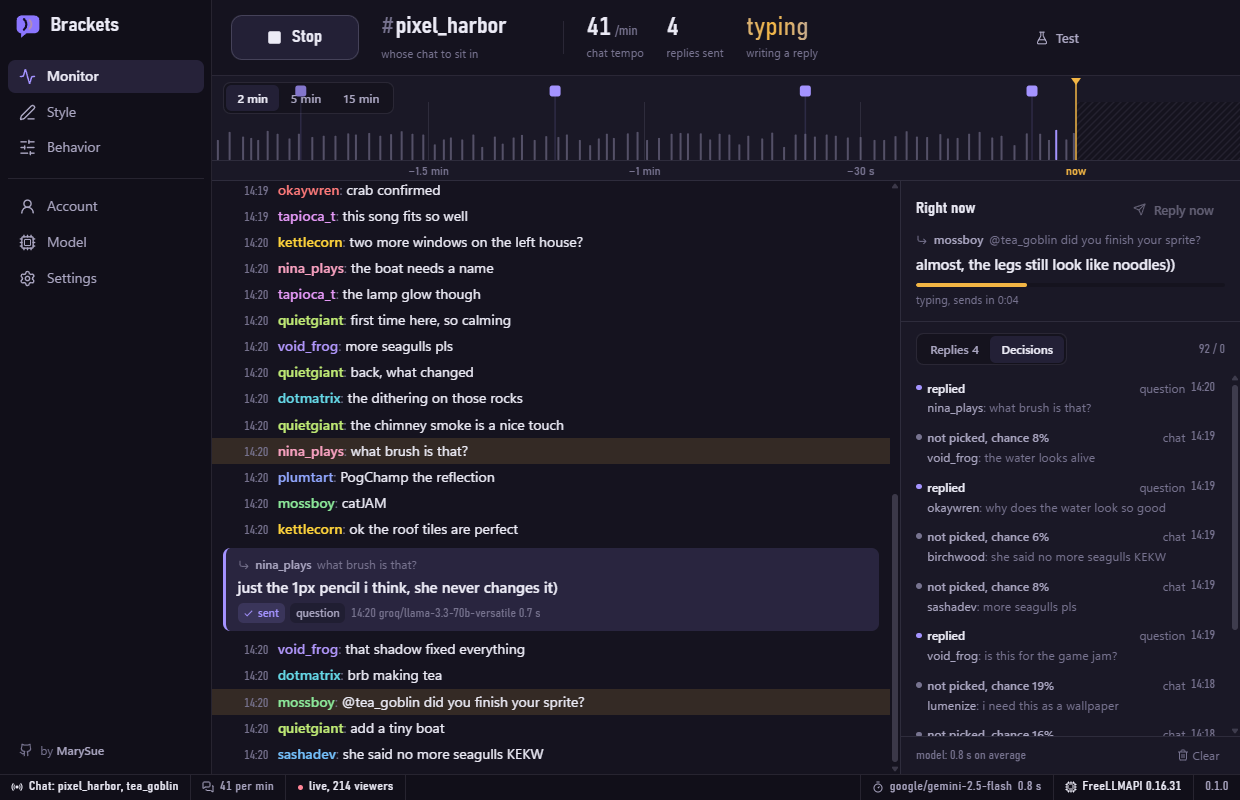
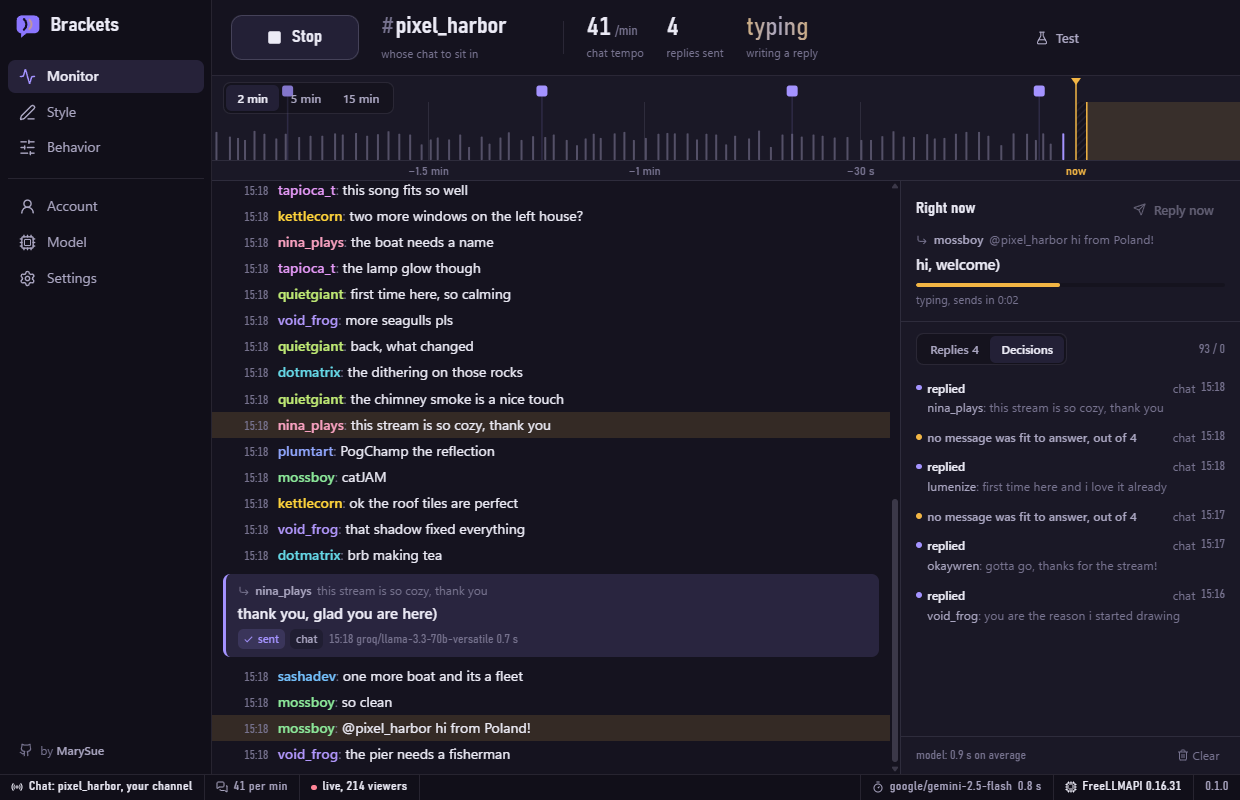
docs: retake pictures on the streamer demo, add licence
README leads with answering your own viewers and links the download.

diff --git a/README.md b/README.md
@@ -1,21 +1,25 @@
 # Brackets — Twitch chat bot
 
-Brackets sits in a Twitch chat under your account and answers some of the messages the way you would write them. Its launcher shows the chat, every reply, and why a message did or did not get one.
+Brackets answers your viewers in your own Twitch chat while you play, from your account and in your manner: "great stream" gets a "thanks)" or a joke, a hello gets a hello back. Its launcher shows the chat, every reply, and why a message did or did not get one.
 
 <p align="center">
-  <img src="docs/preview.gif" width="900" alt="The Brackets monitor at work on a demo chat: messages scroll by, a question is picked, the reply is typed with a progress bar and lands in the chat, and a pad lights up on the rhythm strip above">
+  <img src="docs/preview.gif" width="900" alt="The Brackets monitor at work on a demo chat: viewers' messages scroll by, one that praises the stream is chosen, the thank-you is typed with a progress bar and lands in the chat, and a pad lights up on the rhythm strip above">
 </p>
 
 **Author:** [MarySue](https://github.com/MarySueXLsD) · more of my projects on [itch.io](https://marysue.itch.io)
 
-The replies are written by a language model through [FreeLLMAPI](https://github.com/tashfeenahmed/freellmapi), which is built into the app. It works without any API key; a free key from Groq or Google makes it faster.
+**[Download Brackets for Windows](https://github.com/MarySueXLsD/Brackets-Twitch-Chat-Bot/releases/latest)**
 
-The name comes from the closing bracket some people end a message with in place of a smiley: "ну да)". Brackets can write that way too.
+The replies are written by a language model through [FreeLLMAPI](https://github.com/tashfeenahmed/freellmapi), which is built into the app. It works without any API key; a free key from Groq or Google makes it much faster and steadier.
+
+The name comes from the closing bracket some people end a message with in place of a smiley: "спасибо)". Brackets can write that way too.
 
 ## What it does
 
-- **Answers now and then, not every message.** After each reply it pauses for a random time, then answers one of the next messages. Four paces from "rarely" to "full on", or your own numbers.
-- **Answers sooner when someone talks to you**, and more readily to questions, to the streamer and to topics you list.
+- **Chooses what to answer, then answers.** These are two separate jobs for the model. First it looks over the latest messages for one you could answer without checking anything: praise, a hello or a goodbye, "how are you", a joke. Only then does it write the reply. Often the right choice is "none of these", and then it says nothing.
+- **Answers in general terms and makes nothing up.** It cannot see your stream, only the chat, so it states no facts about the game, your setup or what just happened. A question that needs one is passed over.
+- **Promises nothing in your name.** Requests for giveaways, moderator rights, gifts or dates are not answered.
+- **Not every message.** After each reply it pauses for a random time. Four paces from "rarely" to "full on", or your own numbers. Your name in a message is answered sooner.
 - **Writes like you.** You describe your manner and paste real messages of yours; it can also learn from what you type in chat yourself. The bracket at the end is added by the app, so it is there even when the model forgets.
 - **Types at a human speed** and drops a reply that would arrive too late.
 - **A monitor.** The chat, the replies, the reasons, and a rhythm strip that draws the chat like a step sequencer: a tick per message, a lit pad per reply, a playhead for now, and the pause after a reply hatched ahead of it.
@@ -23,12 +27,14 @@ The name comes from the closing bracket some people end a message with in place 
 - **Works in the background.** Closing the window leaves it in the tray.
 - English and Russian interface, eight themes.
 
+It can also sit in someone else's chat as one of the viewers; it tells which by whose channel it is, and there is a switch on the Style page.
+
 What it will not do:
 
 - **It never sees your Twitch password.** You sign in on Twitch's own page with a short code.
 - **It does not send links, commands or @mentions** the model made up, and it drops replies where a model answers like an assistant or thinks out loud.
 - **It does not answer "are you a bot?"** A made-up "no" would be a lie told in your name. It stays silent, flags the message, and leaves the answer to you.
-- **It skips** bots, commands, chants and other people's conversations, goes quiet for a few minutes when you type yourself, and stops when the account is timed out or banned.
+- **It skips** bots, commands, chants and viewers talking to each other, goes quiet for a few minutes when you type yourself, and stops when the account is timed out or banned.
 
 ## Screenshots
 
@@ -37,7 +43,7 @@ The pictures use the built-in demo: a made-up stream with invented viewers and s
 | | |
 | --- | --- |
 | ![The monitor](docs/monitor.png) | ![Decisions](docs/decisions.png) |
-| The monitor: a reply being typed, earlier replies on the right | Why one message got an answer and another did not |
+| The monitor: a reply being written, earlier replies on the right | What was answered, and when nothing in the chat was fit to answer |
 | ![Style](docs/style.png) | ![Behavior](docs/behavior.png) |
 | Your manner, and a box to try it without sending anything | Four paces, shown with the pause each one takes |
 | ![Signing in](docs/account.png) | ![Model](docs/model.png) |
@@ -48,6 +54,49 @@ The pictures use the built-in demo: a made-up stream with invented viewers and s
 | Neon | Daylight |
 | ![First start](docs/start.png) | ![Russian](docs/monitor-ru.png) |
 | First start: what is ready and what is missing | The same screen in Russian |
+
+## Install
+
+1. Download `Brackets-Setup-<version>.exe` from the [latest release](https://github.com/MarySueXLsD/Brackets-Twitch-Chat-Bot/releases/latest) and run it. Windows 10 or 11, 64-bit.
+2. Windows shows "Windows protected your PC" once, because the installer has no paid code signature: **More info → Run anyway**.
+3. Type your channel next to **Start** and press it. Without a sign-in this is test mode: you see what it would answer, and nothing is sent.
+4. To let it answer for real, sign in on the **Account** page (below).
+
+## Signing in to Twitch
+
+Twitch chat accepts access tokens, not passwords, so the app has no place to type one.
+
+1. Register an application once at [dev.twitch.tv/console/apps](https://dev.twitch.tv/console/apps). Name: anything without the word Twitch. OAuth Redirect URL: `http://localhost`. Category: Chat Bot. Client Type: **Public**. Any Twitch account with two-factor protection can do this.
+2. Copy the application's Client ID and paste it on the **Account** page. A Client ID is not a secret.
+3. Press **Sign in with Twitch**. The app shows a code and opens twitch.tv/activate; enter the code there, in your own browser.
+
+The token may read and write chat and nothing else. It is stored encrypted for the current Windows user and renews itself.
+
+To build a Client ID into a copy you hand to someone, put it on one line in `twitch-client-id.local.txt` next to `package.json` before building; that file is not committed.
+
+## How a reply happens
+
+1. **Listen.** When the pause after the last reply is over, the app gathers the messages that could be answered at all. Bots, commands, links, votes like "+1", chants and messages between viewers are left out.
+2. **Choose.** The model is shown those messages and asked for one that can be answered in general terms, or for "none". When it finds none, the app waits longer before asking again.
+3. **Write.** The model gets your style, the last messages and the one it chose, with the rules above: general, nothing made up, nothing promised. It may still answer "skip".
+4. **Clean.** One line, your capitals and punctuation habits, no links or commands, nothing that reads like an assistant, a classifier's verdict or a model reasoning aloud.
+5. **Type.** The app waits as long as a person would need to type the answer, and gives up if that makes the reply stale.
+
+A message with your name in it skips the first two steps. With "the model chooses" switched off on the Behavior page, step 2 is a roll of the dice instead.
+
+`src/core/` holds these rules; they have no network or clock in them and are covered by `tests/`.
+
+## The model
+
+The router is FreeLLMAPI's own server, unchanged, started as a separate process on `127.0.0.1` only. Its database runs on Node's built-in SQLite, so nothing native is compiled. **Model → Open the dashboard** shows FreeLLMAPI's full dashboard, signed in.
+
+Without a key, replies come from the free services that need none. Those are slow (several seconds a reply) and about one answer in four is unusable: the model thinks out loud instead of answering. Brackets drops those, so it replies less often than the pace you set. One free key from Groq or Google, added on the **Model** page, fixes most of that.
+
+Brackets switches off the "guard" models in the router: they are classifiers listed among the chat models, and they answer every request with a verdict such as "Safety: Safe".
+
+The FreeLLMAPI version is pinned in `scripts/vendor.config.mjs` by tag and commit. To update, change both, run `npm run setup`, compare `router/host.ts` with `desktop/src/server-host.ts` in the new FreeLLMAPI checkout, and run the smoke test below.
+
+FreeLLMAPI keeps its model list fresh from freellmapi.co and sends each request to the provider that answers it. A request holds the last few chat messages and your style description.
 
 ## Run it from source
 
@@ -77,8 +126,6 @@ Build the Windows installer (`release/Brackets-Setup-<version>.exe`):
 npm run dist
 ```
 
-The installer is not code-signed, so Windows shows "Windows protected your PC" once: **More info → Run anyway**.
-
 ### The demo
 
 To see the app at work without Twitch, an account or a model, run it on the demo chat. `npm install` and `npx install-electron` are enough for this; it keeps its settings in a folder of its own.
@@ -86,34 +133,6 @@ To see the app at work without Twitch, an account or a model, run it on the demo
 ```bash
 npm run demo
 ```
-
-## Signing in to Twitch
-
-Twitch chat accepts access tokens, not passwords, so the app has no place to type one.
-
-1. Register an application once at [dev.twitch.tv/console/apps](https://dev.twitch.tv/console/apps). Name: anything without the word Twitch. OAuth Redirect URL: `http://localhost`. Category: Chat Bot. Client Type: **Public**. Any Twitch account with two-factor protection can do this; it does not have to be the account that will chat.
-2. Copy the application's Client ID. Paste it on the **Account** page. To build it into a copy you hand to someone, put it on one line in `twitch-client-id.local.txt` next to `package.json` before building; that file is not committed. A Client ID is not a secret.
-3. On the Account page press **Sign in with Twitch**. The app shows a code and opens twitch.tv/activate; the owner of the account enters the code there, in their own browser.
-
-The token may read and write chat and nothing else. It is stored encrypted for the current Windows user and renews itself.
-
-## How a reply happens
-
-1. **Is this message for answering at all?** Bots, commands, links, votes like "+1", chants and messages addressed to someone else are passed over.
-2. **Is it time?** After a reply there is a pause. Once it ends, each message gets a chance sized so that a reply lands within about twenty seconds, however fast the chat is. A question, the streamer or a favourite topic gets a bigger chance; your name skips the pause.
-3. **Write it.** The model gets your style, the last messages and the one to answer.
-4. **Clean it.** One line, your capitals and punctuation habits, no links or commands, nothing that reads like an assistant.
-5. **Type it.** The app waits as long as a person would need to read the message and type the answer, and gives up if that makes the reply stale.
-
-`src/core/` holds these rules; they have no network or clock in them and are covered by `tests/`.
-
-## FreeLLMAPI
-
-The router is FreeLLMAPI's own server, unchanged, started as a separate process on `127.0.0.1` only. Its database runs on Node's built-in SQLite, so nothing native is compiled. **Model → Open the dashboard** shows FreeLLMAPI's full dashboard, signed in.
-
-The version is pinned in `scripts/vendor.config.mjs` by tag and commit. To update, change both, run `npm run setup`, compare `router/host.ts` with `desktop/src/server-host.ts` in the new FreeLLMAPI checkout, and run the smoke test below.
-
-FreeLLMAPI keeps its model list fresh from freellmapi.co and sends each request to the provider that answers it. A request holds the last few chat messages and your style description.
 
 ## Checking it
 
@@ -138,10 +157,11 @@ The pictures and the GIF on this page are made by the app itself. `src/main/shot
 | Path | What is in it |
 | --- | --- |
 | `src/core/irc.ts` | Reading and writing Twitch chat lines |
-| `src/core/pacer.ts` | When to reply |
-| `src/core/persona.ts` | The instructions for the model |
+| `src/core/pacer.ts` | When a reply may happen |
+| `src/core/picker.ts` | The model's first job: choosing the message |
+| `src/core/persona.ts` | The model's second job: the instructions for the reply |
 | `src/core/filters.ts` | Turning model output into a chat line, or refusing it |
-| `src/main/bot.ts` | The responder: ties the four together |
+| `src/main/bot.ts` | The responder: ties these together |
 | `src/main/twitch/` | The chat connection and the sign-in |
 | `src/main/router.ts`, `router/host.ts` | Running FreeLLMAPI |
 | `src/main/store.ts` | Settings and encrypted secrets |
@@ -154,9 +174,11 @@ Settings, the sign-in and the router's database live in `%APPDATA%\Brackets Twit
 
 ## Before you switch it on
 
-Automatic replies under a personal account are not welcome in every chat, and a streamer or moderator may time out an account for them. Use test mode first, start with a slow pace, and do not run it where the channel does not want it.
+On your own channel this is your call. In someone else's chat, automatic replies under a personal account are not always welcome, and a streamer or moderator may time out an account for them: use test mode first, start with a slow pace, and do not run it where the channel does not want it.
 
-## Credits
+## Licence and credits
+
+Brackets is released under the [MIT licence](LICENSE).
 
 - [FreeLLMAPI](https://github.com/tashfeenahmed/freellmapi) by Tashfeen Ahmed, MIT licence. Its licence text ships with the app in `FreeLLMAPI-LICENSE.txt`.
 - The look follows my other two apps, [Maris](https://github.com/MarySueXLsD/Maris-Local-AI) and [SensePad](https://github.com/MarySueXLsD/SensePad).
